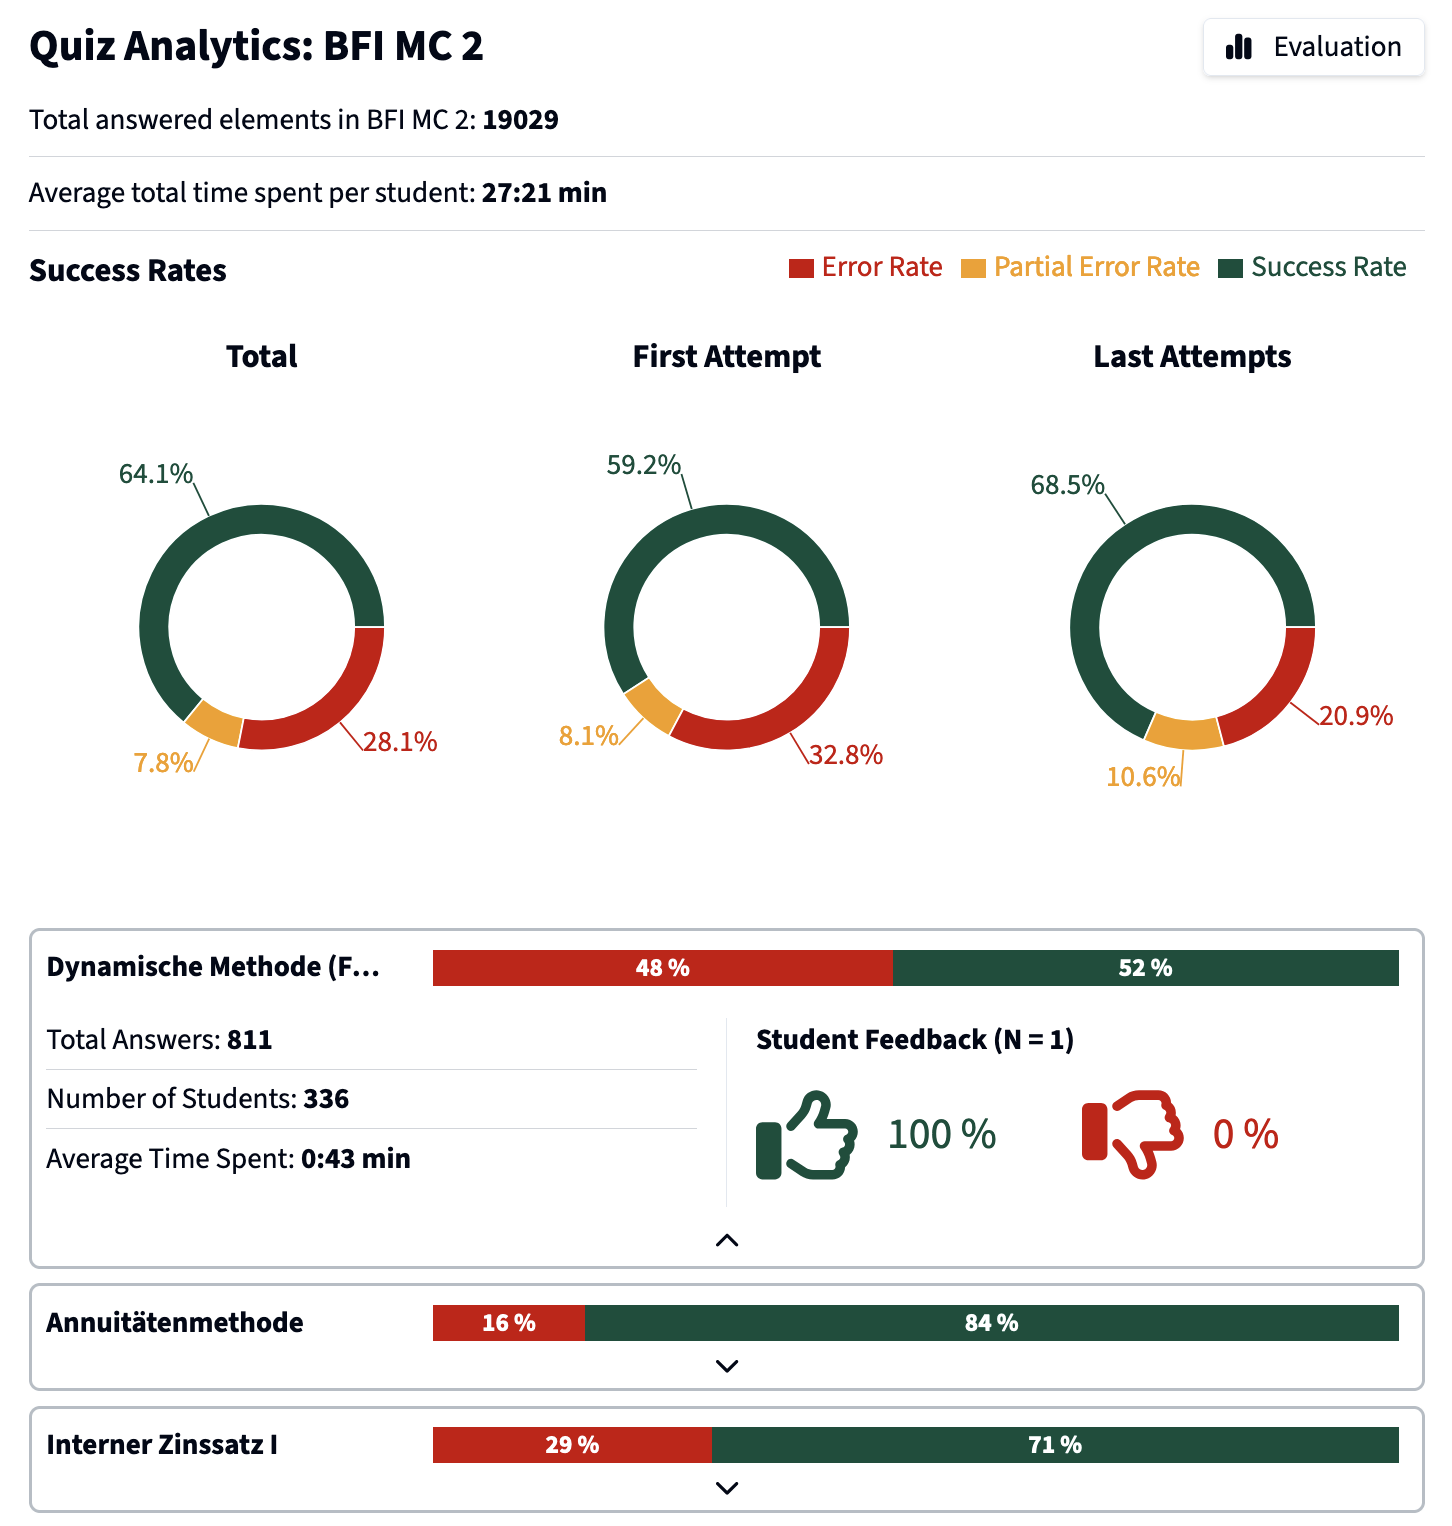
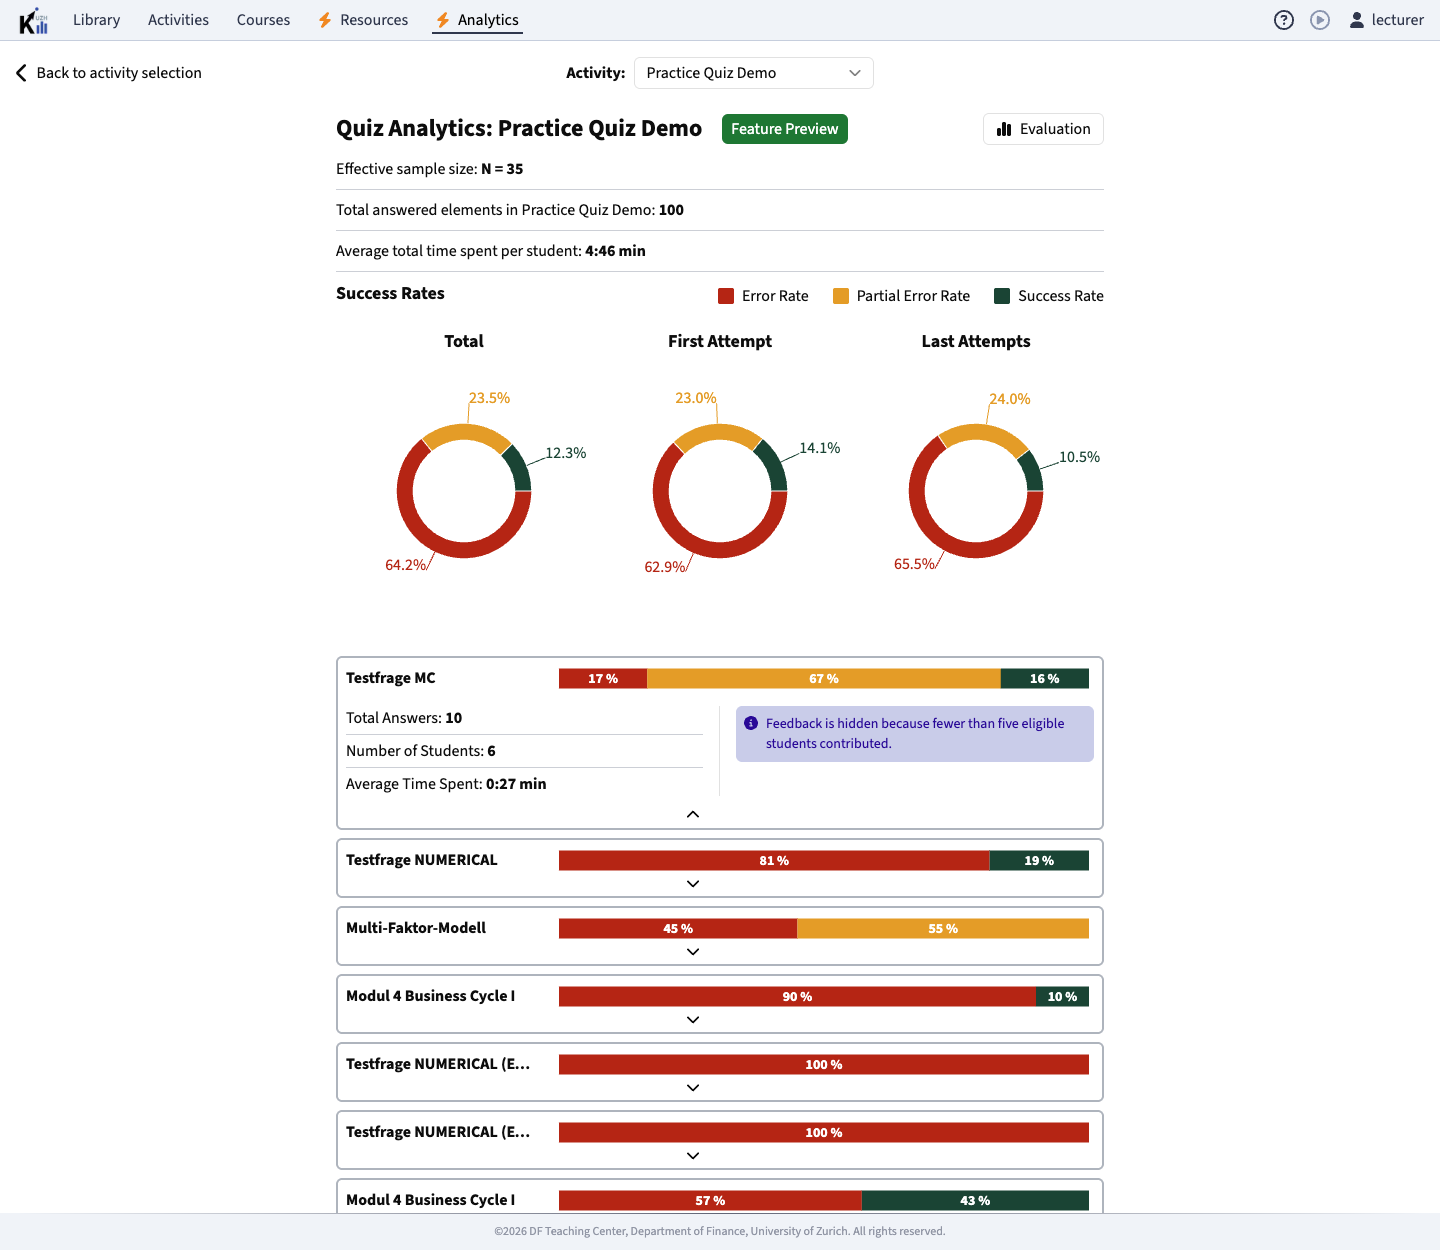
docs(docs): add learning analytics documentation for lecturers and students
Two cross-linked pages: a lecturer page under a new Lecturer - Analytics
sidebar group covering enabling, the three dashboards, the privacy model, and
lecturer responsibilities, and a student page under Student - Application
covering the participation choice. Both are marked beta and available on
request for users at UZH.

The three stored screenshots were stale and are replaced with fresh captures
from the synthetic Testkurs fixture; the previous quiz capture showed feedback
for a single student, which the current five-student rule forbids.

diff --git a/apps/docs/sidebars.js b/apps/docs/sidebars.js
@@ -30,6 +30,7 @@ module.exports = {
       'tutorials/delegated_access',
       'tutorials/review',
     ],
+    'Lecturer - Analytics': ['tutorials/learning_analytics'],
     'Lecturer - Integrations': [
       'tutorials/ppt_integration',
       'tutorials/lti_integration',
@@ -42,6 +43,7 @@ module.exports = {
       'student_tutorials/microlearning',
       'student_tutorials/course_leaderboard',
       'student_tutorials/groups_activities',
+      'student_tutorials/learning_analytics',
     ],
     Gamification: [
       'gamification/overview',

diff --git a/project/2026-07-31-learning-analytics-user-documentation-plan.md b/project/2026-07-31-learning-analytics-user-documentation-plan.md
@@ -183,14 +183,11 @@ rather than a rollout detail.
 - `Evidence:` `pnpm --filter @klicker-uzh/{util,prisma-data,graphql} check`
   clean; `@klicker-uzh/graphql` builds and the bundle resolves the constant
   through the util import; prettier clean on all changed files.
-- `Evidence:` R1 partially retired. The three lecturer-facing screenshots under
+- `Evidence:` R1 first pass. The three lecturer-facing screenshots under
   `apps/docs/static/img/learning_analytics/` carry no personal data and the
   performance dashboard already uses `Student 1`-style pseudonyms.
   `la_students_dashboard.png` is a captioned thesis figure of the student view,
   not a product screenshot, and is not reused.
-- `Risk:` The database-backed check (pipeline run against the seeded data)
-  is outstanding and is batched into S5 with the browser verification so the
-  environment is started once.
 - S2 implemented. The participant disclosure now carries a sentence linking the
   student and lecturer documentation pages, in both locales, rendered as
   external links inside the existing info notification. The German string names
@@ -198,7 +195,50 @@ rather than a rollout detail.
   bumped; see the S2 decision.
 - `Evidence:` `pnpm --filter @klicker-uzh/frontend-pwa check` and its unit
   tests pass; prettier clean.
-- Next action: S3 — lecturer documentation page.
+- S1 follow-up committed. The nested `learningAnalyticsChoiceEvents` create
+  never ran: `prepareParticipant` already creates the participations through
+  `courseIds`, so the participation upsert always took its update branch. The
+  choice history is now rebuilt explicitly after the participation loop.
+  `Evidence:` against the seeded database, every decided participation carries
+  exactly one choice event, and the eligible participation count is 35.
+- `Evidence:` full local verification loop established. The DevPod workspace
+  `claude-la-user-documentation` runs the apps; `seedInteractions` supplies
+  1105 responses for `Testkurs`; the Python analytics pipeline ran in the
+  container (`uv sync --no-install-package hdbscan`, then scripts 0-9, 13, 14,
+  11, 99 — script 10 needs a C compiler the container lacks) and marked the
+  course analytics valid. All three dashboards render real data.
+- `Problem:` `turbo dev` aborted in the container on `@klicker-uzh/hatchet:build`
+  with `Expected '{', got 'type'`. `Evidence:` the host build had left
+  `packages/hatchet/dist/tsconfig.tsbuildinfo` in the mounted worktree, so the
+  incremental TypeScript compiler emitted nothing and Rollup parsed raw `.ts`.
+  Clearing every `*.tsbuildinfo` outside `node_modules` fixed it.
+- S3 and S4 implemented as one commit. `Decision:` the two pages cross-link each
+  other, so splitting them would leave an intermediate commit whose Docusaurus
+  build fails on a broken link.
+- `Decision:` the lecturer page does not use `CatalystTitle`. Its badge reads
+  "Available for UZH & KlickerUZH Catalyst", which contradicts the approved
+  beta/on-request-at-UZH positioning. The beta admonition is the single
+  availability statement.
+- `Evidence:` R1 retired. All three stored screenshots were stale, not only the
+  performance one: the activity capture predates the switch from `Week N` to
+  date axis labels and shows real UZH course names, and the quiz capture shows
+  `Student Feedback (N = 1)`, which the current five-student rule forbids and
+  which would have contradicted the page text. All three were replaced with
+  fresh captures from the synthetic `Testkurs` fixture, and two were added
+  (course setting, student performance). No image carries personal data.
+- `Evidence:` the two rate views agree. `ActivityPerformance.totalErrorRate` for
+  `Practice Quiz Demo` is 0.642 and both the Performance Rates bar chart and the
+  Quiz Dashboard donut render it as the error rate; the donut's data order is
+  `[success, partial, error]`, which is what makes a flat text dump of it look
+  inverted against its legend.
+- `Evidence:` `pnpm --filter @klicker-uzh/docs build:docs` succeeds. The only
+  broken link is the pre-existing `/tutorials/gamification/` from
+  `getting_started/core_concepts`; both new pages and all their cross-links
+  resolve. Both pages were rendered from the built site and checked visually.
+- `Evidence:` browser verification of S2 in the running PWA. Both documentation
+  links render inside the disclosure notice with the correct absolute URLs, in
+  English and German, at 1280px and 390px.
+- Next action: S5 — review gates and PR.
 
 ## Next steps
 
